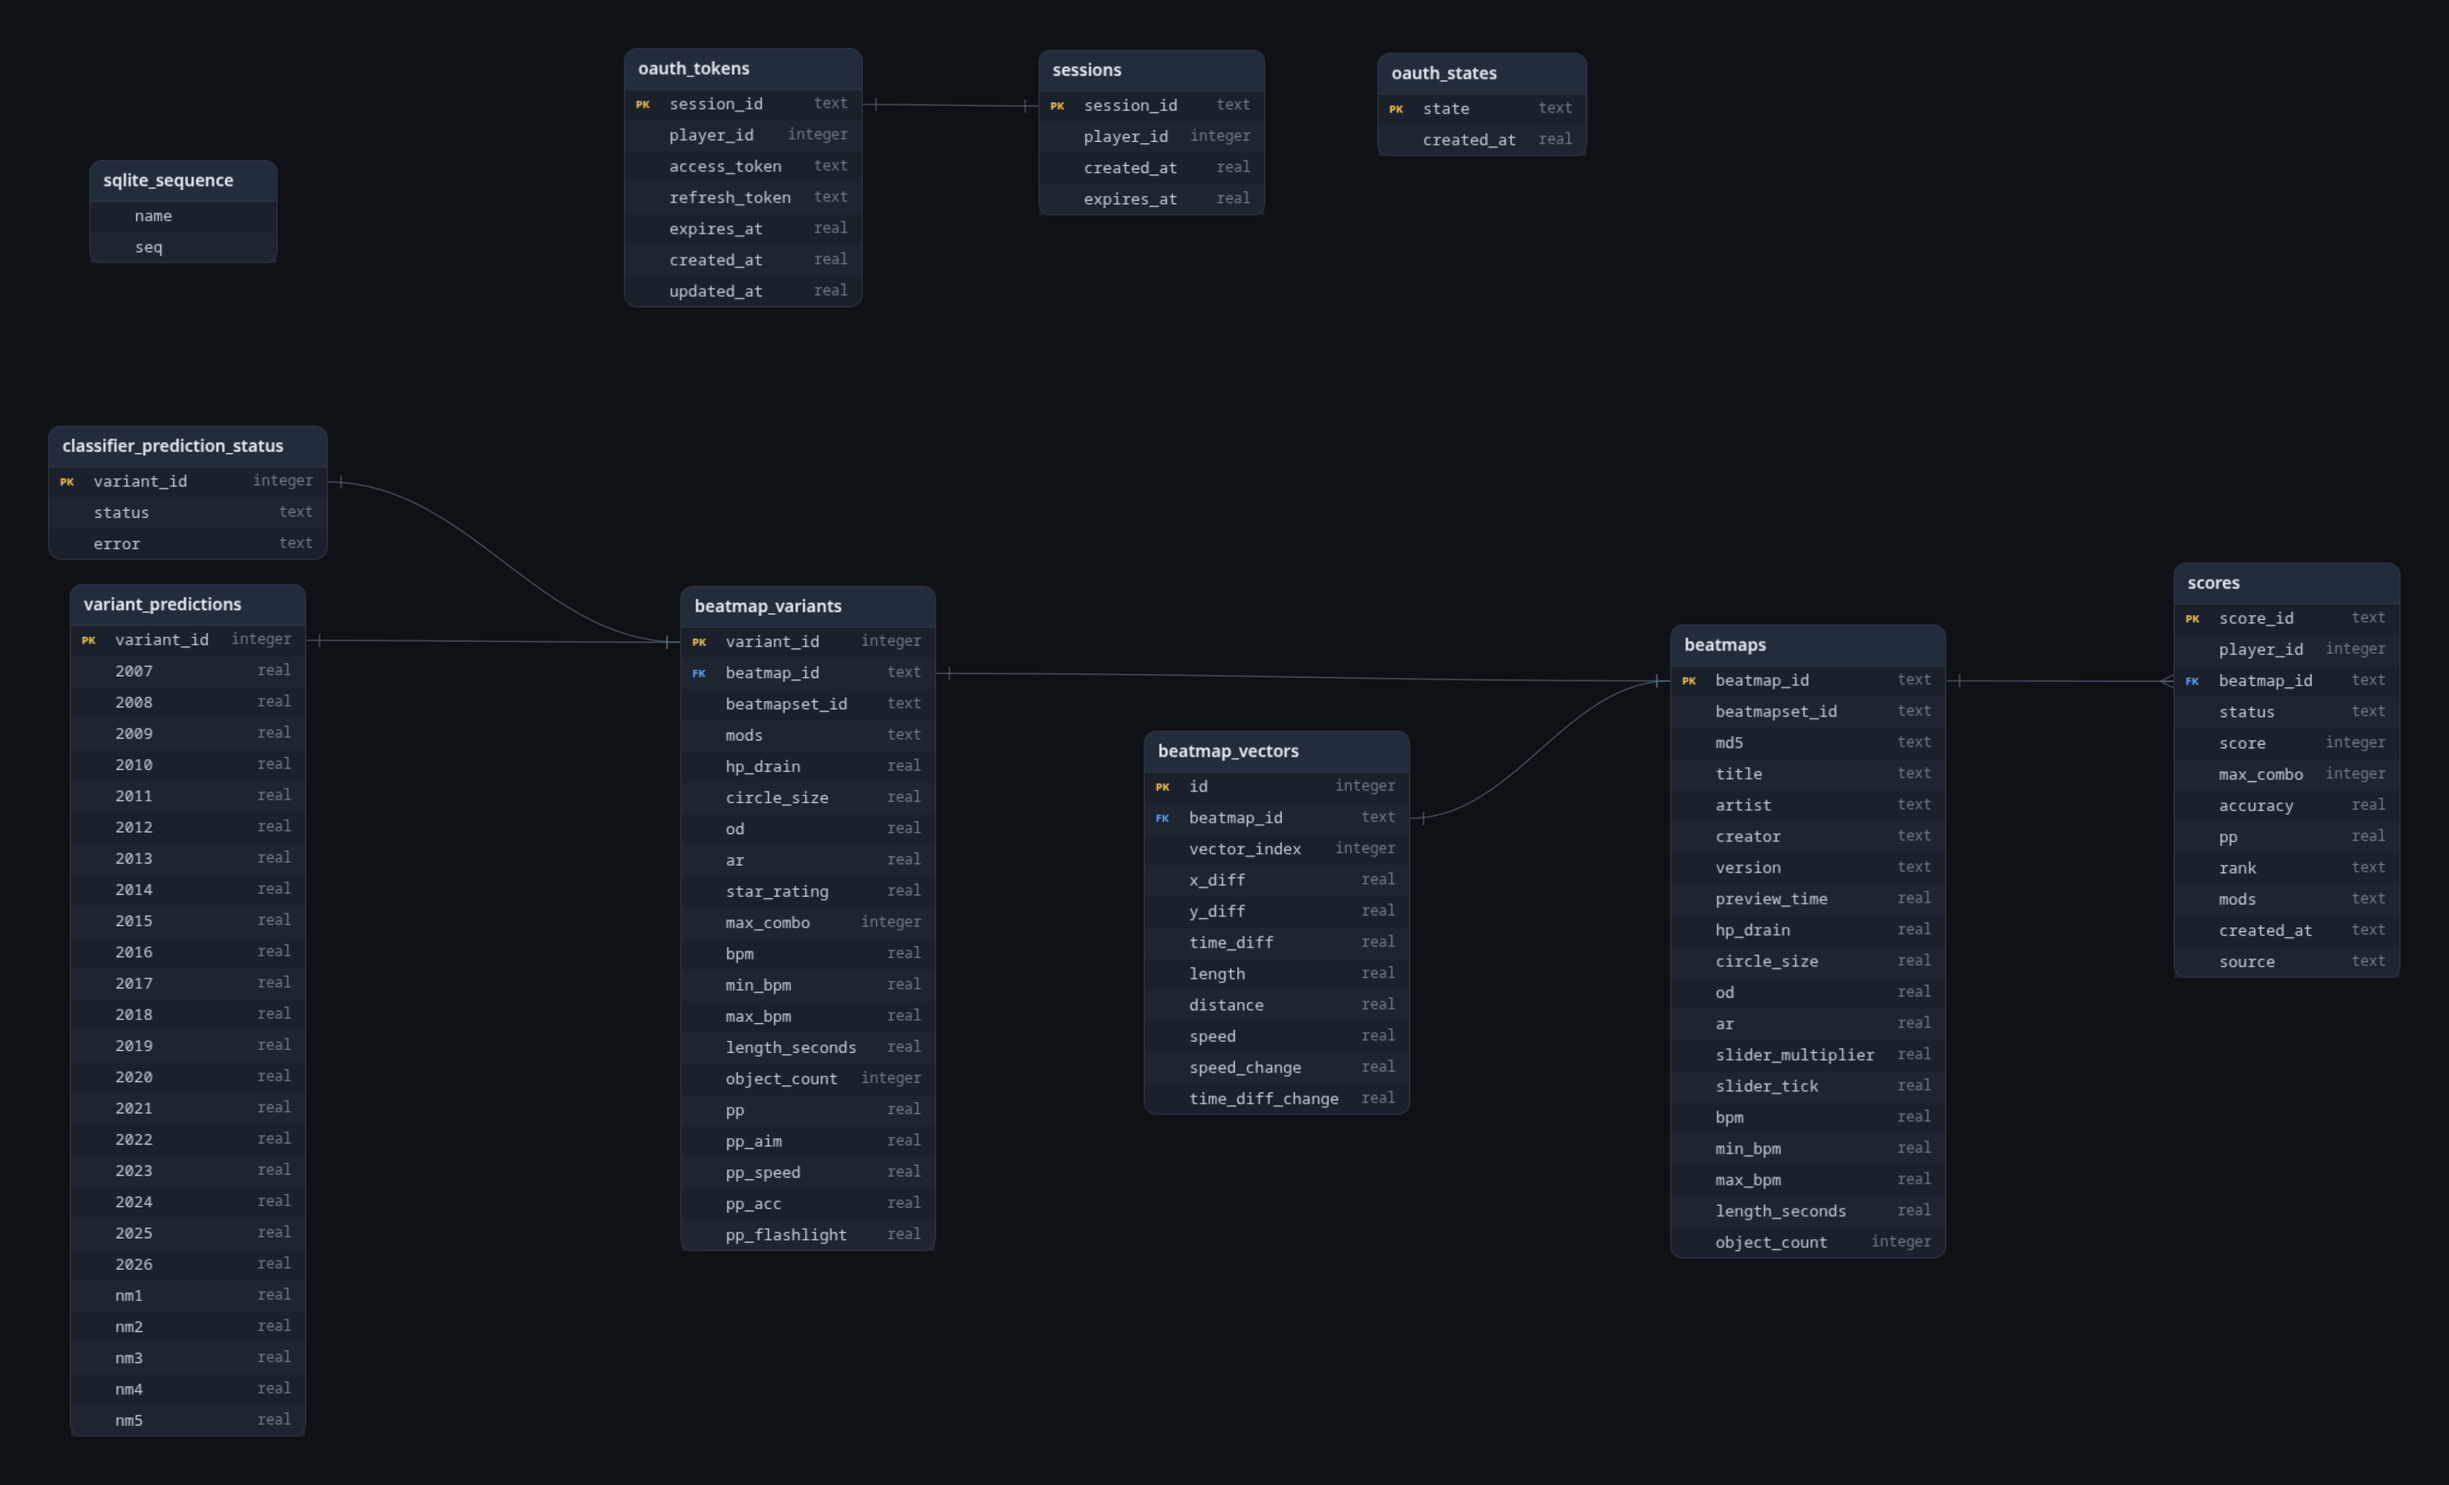
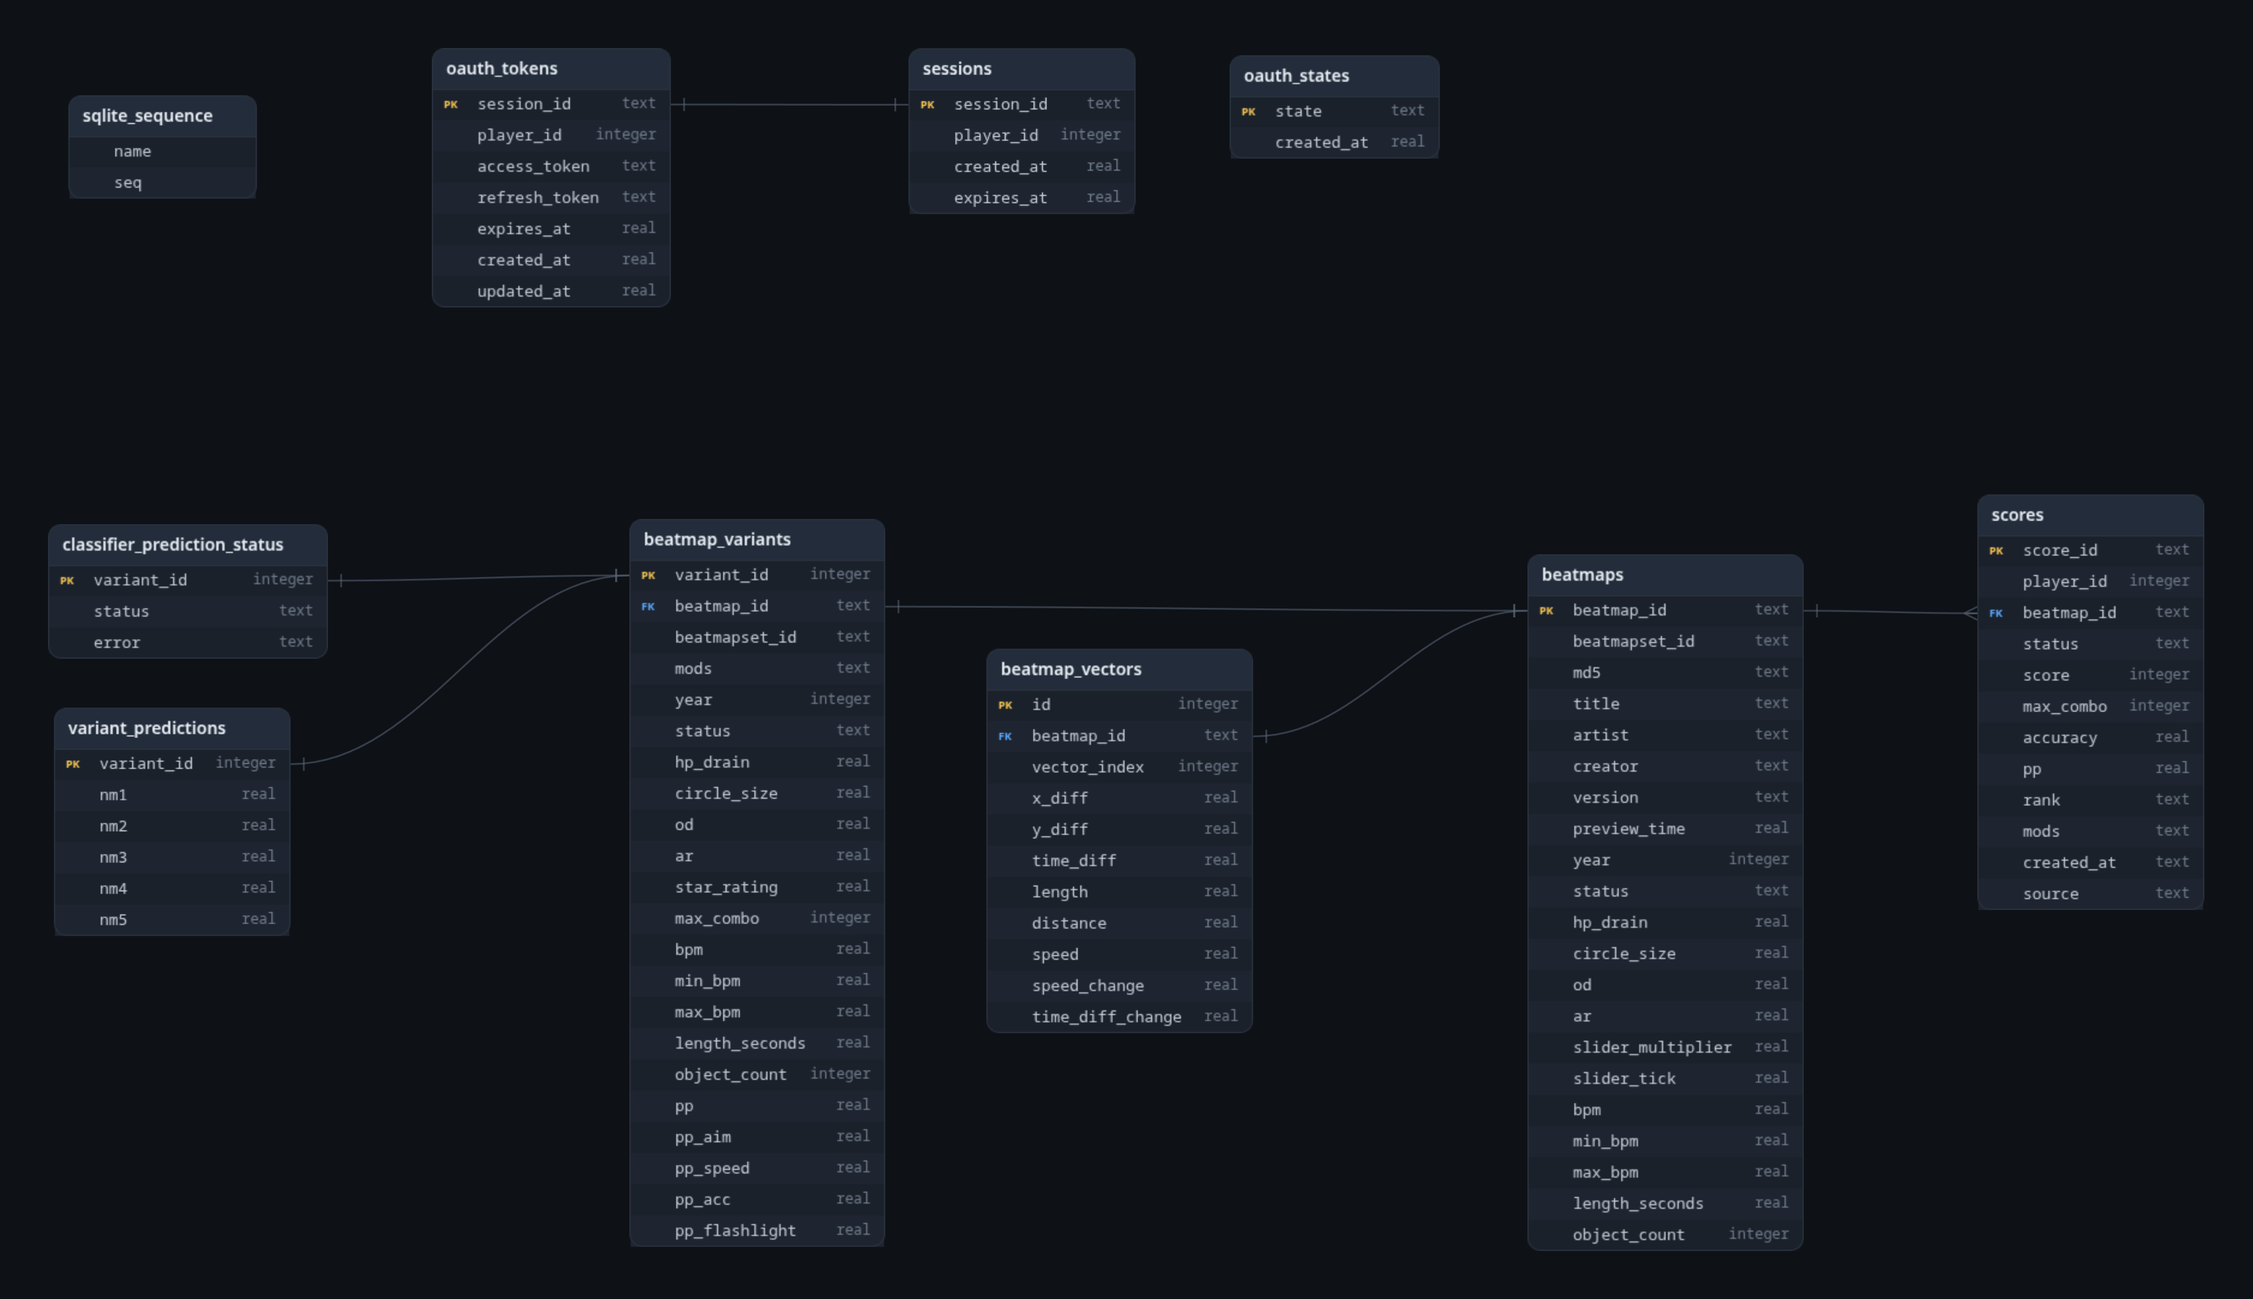
update README.md and schema.png

diff --git a/README.md b/README.md
@@ -41,7 +41,7 @@ Shoutouts to [Specter](https://osu.ppy.sh/users/14551370) for making many tourna
 
 The recommender's dataset are all ranked and loved beatmaps from 2007-2026, seen from this: [2007-2023](https://osu.ppy.sh/community/forums/topics/330552?n=1), [2024-2026](https://osu.ppy.sh/community/forums/topics/2045828?n=1), [Loved](https://osudl.org/)
 
-I will provide the download link to the .osu files, the classifier database, and the recommender database ([here!](https://www.mediafire.com/file/9gwvef84g4ezn74/recommendosu-data_06-10-2026.zip/file)).
+I will provide the download link to the .osu files, the classifier database, and the recommender database ([here!](https://www.mediafire.com/file/m2mt1kwzt6bgjjs/recommendosu-data_12-10-2026.zip/file)).
 
 # Requirements
 
